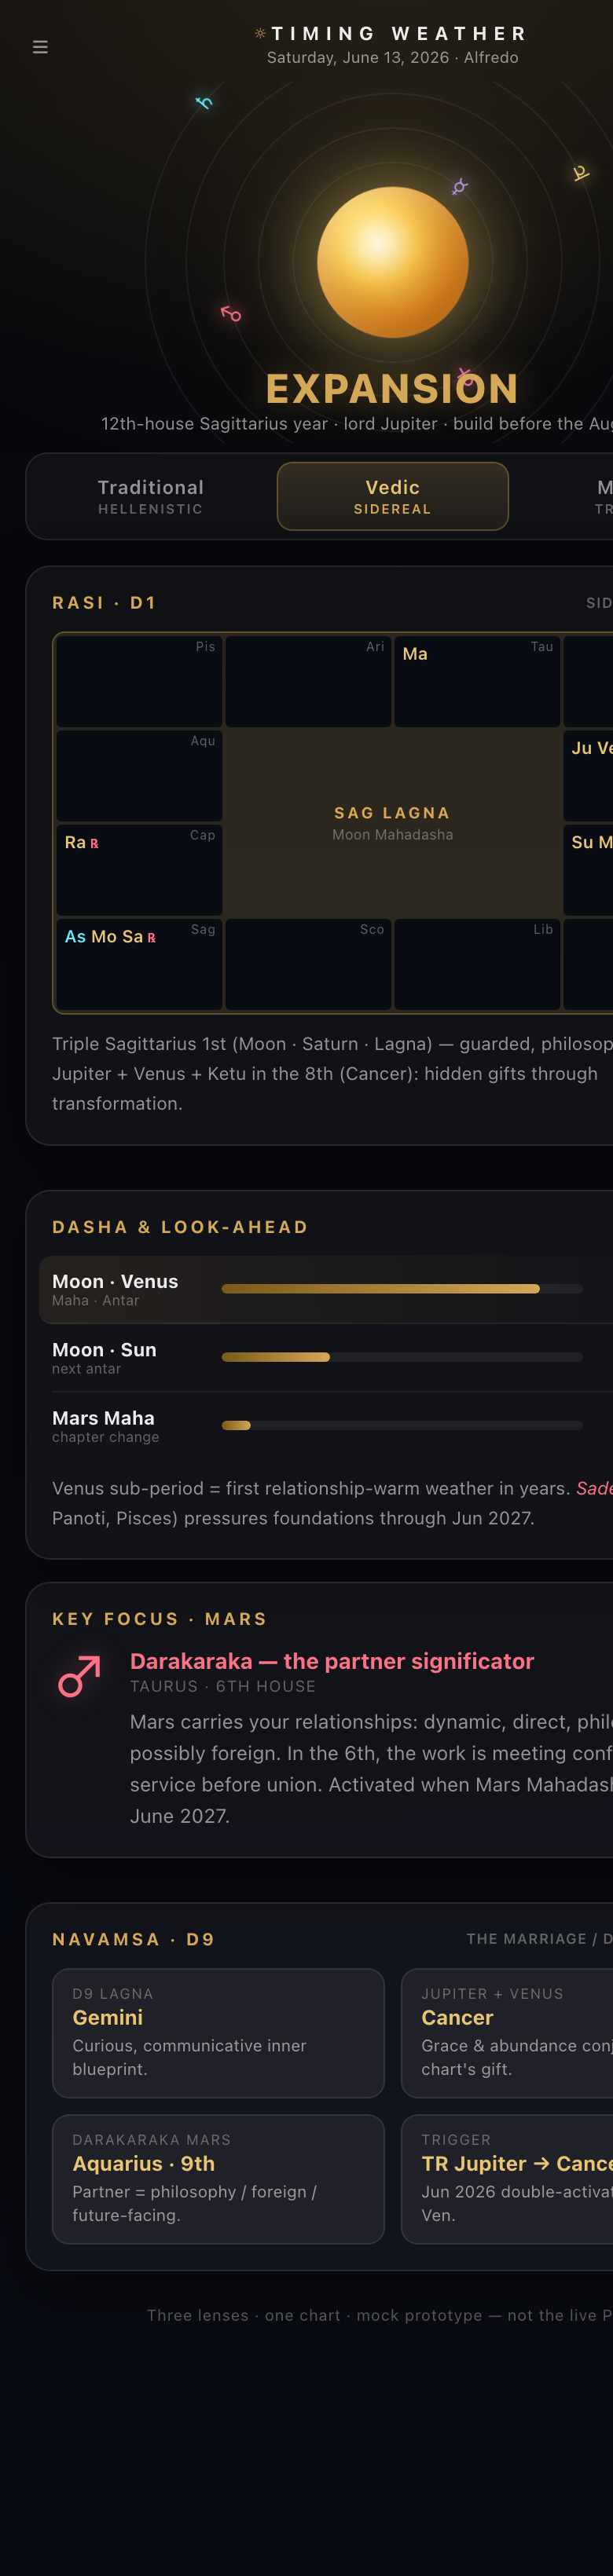
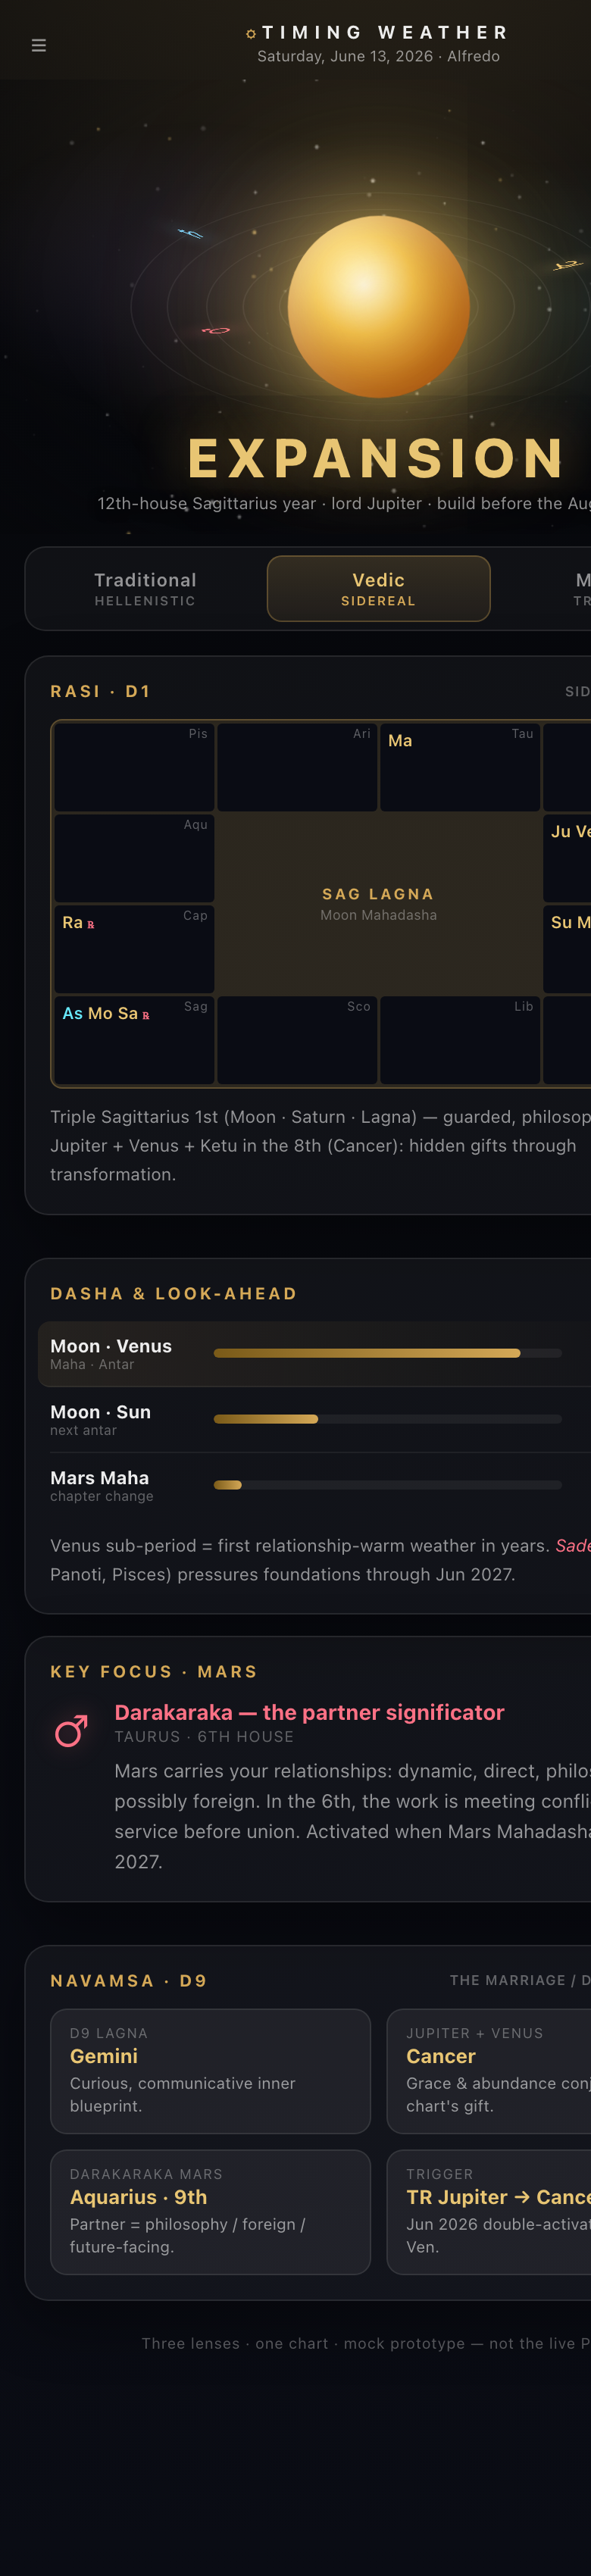
polish(three-lens): cinematic solar hero + kill iOS emoji glyphs
Hero reworked into a tilted 3D orbital plane with starfield, nebula glow,
luminous sun + corona, planets gliding on elliptical paths, dramatic title.
Zodiac/planet symbols now render as monochrome TEXT (Apple Symbols stack +
U+FE0E + font-variant-emoji) instead of color emoji, in HTML and SVG charts.

diff --git a/timing-weather/design_exploration_2026-06-12/three-lens-dashboard.html b/timing-weather/design_exploration_2026-06-12/three-lens-dashboard.html
@@ -17,13 +17,18 @@
   --gold:#d4a857;--gold-br:#e8c573;--gold-deep:#7a5a18;
   --green:#4ade80;--orange:#f59e0b;--cyan:#67e8f9;--red:#f87171;--violet:#a78bfa;--pink:#f472b6;--coral:#fb7185;
   --t:rgba(255,255,255,.92);--t2:rgba(255,255,255,.55);--t3:rgba(255,255,255,.34);
-  --sans:-apple-system,BlinkMacSystemFont,"SF Pro Display","Segoe UI",system-ui,sans-serif;
+  /* "Apple Symbols" / "Segoe UI Symbol" supply MONOCHROME text glyphs for zodiac + planets,
+     so the browser uses those instead of falling back to the color-emoji font. */
+  --sans:-apple-system,BlinkMacSystemFont,"SF Pro Display","Segoe UI",system-ui,"Apple Symbols","Segoe UI Symbol","Noto Sans Symbols2",sans-serif;
   --serif:"Iowan Old Style",Georgia,"Times New Roman",serif;
   --mono:"SF Mono",ui-monospace,Menlo,monospace;
 }
 *,*::before,*::after{box-sizing:border-box;margin:0;padding:0}
+/* SVG chart text (wheel signs, planet glyphs) must use the symbol-inclusive stack too */
+svg text{font-family:var(--sans);font-variant-emoji:text}
 html,body{width:100%}
 body{font-family:var(--sans);color:var(--t);-webkit-font-smoothing:antialiased;min-height:100vh;overflow-x:hidden;
+  font-variant-emoji:text;text-rendering:optimizeLegibility;
   background:radial-gradient(1100px 560px at 50% -4%,rgba(212,168,87,.13),transparent 56%),
     radial-gradient(700px 420px at 50% 4%,rgba(232,197,115,.05),transparent 60%),
     linear-gradient(180deg,var(--bg),var(--bg2));background-attachment:fixed;padding-bottom:40px}
@@ -38,19 +43,33 @@ body{font-family:var(--sans);color:var(--t);-webkit-font-smoothing:antialiased;m
 .hdr .tt .d{font-size:10px;color:var(--t2);margin-top:2px}
 .hdr .dots{width:30px}
 
-/* ANIMATED SOLAR-SYSTEM HERO */
-.solar{position:relative;height:230px;margin:2px 0 6px;overflow:hidden}
-.solar .sun{position:absolute;left:50%;top:115px;width:96px;height:96px;border-radius:50%;margin:-48px 0 0 -48px;z-index:3;
-  background:radial-gradient(circle at 40% 38%,#FFFCEA,#FFF1B3 12%,#FFD659 30%,#E8A93A 55%,#8A4D0B 100%);
-  box-shadow:0 0 50px rgba(255,218,109,.55),0 0 110px rgba(212,168,87,.32),inset -14px -20px 40px rgba(180,80,0,.55),inset 6px 6px 20px rgba(255,250,200,.5);animation:breathe 6s ease-in-out infinite}
-@keyframes breathe{0%,100%{transform:scale(1)}50%{transform:scale(1.04)}}
-.orb{position:absolute;left:50%;top:115px;border:1px solid rgba(255,255,255,.06);border-radius:50%;transform:translate(-50%,-50%)}
-.spin{position:absolute;left:50%;top:115px;width:0;height:0;transform:translate(-50%,-50%);animation:spin linear infinite}
-.spin .pl{position:absolute;font-size:15px;transform:translate(-50%,-50%);filter:drop-shadow(0 0 5px currentColor)}
+/* CINEMATIC SOLAR-SYSTEM HERO — tilted orbital plane + starfield + luminous sun */
+.solar{position:relative;height:300px;margin:2px -16px 8px;overflow:hidden}
+#starfield{position:absolute;inset:0;z-index:0;pointer-events:none}
+.solar .neb{position:absolute;inset:0;z-index:0;pointer-events:none;
+  background:radial-gradient(55% 62% at 50% 56%,rgba(212,168,87,.13),transparent 72%),
+    radial-gradient(46% 46% at 26% 42%,rgba(167,139,250,.10),transparent 72%),
+    radial-gradient(42% 46% at 76% 50%,rgba(103,232,249,.07),transparent 72%)}
+.solar .vig{position:absolute;inset:0;z-index:4;pointer-events:none;
+  background:radial-gradient(82% 92% at 50% 44%,transparent 54%,rgba(6,7,10,.7))}
+/* the orbital plane is squashed vertically (scaleY) → circles read as ellipses seen at an angle */
+.field{position:absolute;left:50%;top:150px;width:0;height:0;z-index:1;transform:translate(-50%,-50%) scaleY(.46)}
+.orb{position:absolute;left:50%;top:50%;border-radius:50%;border:1px solid rgba(255,255,255,.07);transform:translate(-50%,-50%)}
+.spin{position:absolute;left:50%;top:50%;width:0;height:0;transform:translate(-50%,-50%);animation:spin linear infinite}
+.spin .pl{position:absolute;left:0;transform:translate(-50%,-50%) scaleY(2.17);font-size:14px;filter:drop-shadow(0 0 6px currentColor)}
 @keyframes spin{to{transform:translate(-50%,-50%) rotate(360deg)}}
-.solar .label{position:absolute;left:0;right:0;bottom:6px;text-align:center;z-index:4}
-.solar .label .ph{font-size:26px;font-weight:800;letter-spacing:.05em;color:var(--gold);text-transform:uppercase;text-shadow:0 0 22px rgba(212,168,87,.4)}
-.solar .label .sub{font-size:11px;color:var(--t2);margin-top:1px}
+.sun{position:absolute;left:50%;top:150px;width:120px;height:120px;border-radius:50%;margin:-60px 0 0 -60px;z-index:2;
+  background:radial-gradient(circle at 42% 38%,#FFFEF4 0%,#FFF1B3 14%,#FFD659 32%,#E8A93A 56%,#B5630C 82%,#6e3b08 100%);
+  box-shadow:0 0 64px rgba(255,218,109,.6),0 0 140px rgba(232,197,115,.42),0 0 250px rgba(212,168,87,.3),
+    inset -18px -24px 52px rgba(150,60,0,.6),inset 9px 9px 28px rgba(255,252,220,.55);animation:breathe 7s ease-in-out infinite}
+.sun::before{content:"";position:absolute;inset:-16px;border-radius:50%;z-index:-1;
+  background:radial-gradient(circle,rgba(255,214,89,.34),transparent 66%);animation:corona 7s ease-in-out infinite}
+@keyframes breathe{0%,100%{transform:scale(1)}50%{transform:scale(1.035)}}
+@keyframes corona{0%,100%{opacity:.55;transform:scale(1)}50%{opacity:1;transform:scale(1.14)}}
+.solar .label{position:absolute;left:0;right:0;bottom:14px;text-align:center;z-index:5}
+.solar .label .ph{font-size:36px;font-weight:800;letter-spacing:.14em;color:var(--gold-br);text-transform:uppercase;
+  text-shadow:0 0 32px rgba(212,168,87,.55),0 2px 22px rgba(0,0,0,.7)}
+.solar .label .sub{font-size:11px;color:var(--t2);margin-top:3px;text-shadow:0 1px 8px rgba(0,0,0,.85)}
 
 /* lens nav */
 .lensnav{display:flex;gap:6px;background:var(--card);border:1px solid var(--border);border-radius:14px;padding:5px;margin:6px 0 16px}
@@ -159,9 +178,13 @@ body{font-family:var(--sans);color:var(--t);-webkit-font-smoothing:antialiased;m
     <div class="dots"></div>
   </div>
 
-  <!-- ANIMATED SOLAR SYSTEM HERO -->
+  <!-- CINEMATIC SOLAR SYSTEM HERO -->
   <div class="solar" id="solar">
+    <canvas id="starfield"></canvas>
+    <div class="neb"></div>
+    <div class="field" id="field"></div>
     <div class="sun"></div>
+    <div class="vig"></div>
     <div class="label"><div class="ph">EXPANSION</div><div class="sub">12th-house Sagittarius year · lord Jupiter · build before the August turn</div></div>
   </div>
 
@@ -283,22 +306,35 @@ body{font-family:var(--sans);color:var(--t);-webkit-font-smoothing:antialiased;m
 <script>
 const NS='http://www.w3.org/2000/svg';
 function el(tag,attrs,parent){const e=document.createElementNS(NS,tag);for(const k in attrs)e.setAttribute(k,attrs[k]);if(parent)parent.appendChild(e);return e;}
+/* force monochrome TEXT presentation on astro/planet/arrow glyphs (Apple defaults them to color emoji).
+   Appends U+FE0E to every matched glyph across HTML + SVG text nodes. */
+function noEmoji(root){
+  const SET=/[↗↘♈-♓♀♂♃♄♅♆♇☉☼☽☿☊❤☀]/g;
+  const w=document.createTreeWalker(root,NodeFilter.SHOW_TEXT,null);const nodes=[];let n;
+  while(n=w.nextNode())nodes.push(n);
+  nodes.forEach(t=>{const v=t.nodeValue;if(SET.test(v)){SET.lastIndex=0;t.nodeValue=v.replace(SET,m=>m+'︎');}SET.lastIndex=0;});
+}
 
-/* ---- animated solar-system hero ---- */
+/* ---- cinematic solar-system hero: starfield + tilted orbital plane ---- */
 (function(){
-  const host=document.getElementById('solar');
-  // decorative orbital system: rings + orbiting planet glyphs
+  const host=document.getElementById('solar'), W=host.clientWidth||375, H=300;
+  // starfield
+  const cv=document.getElementById('starfield');cv.width=W;cv.height=H;const x=cv.getContext('2d');
+  for(let i=0;i<130;i++){const r=Math.pow(Math.random(),2)*1.4+.2;x.beginPath();x.arc(Math.random()*W,Math.random()*H,r,0,7);
+    x.fillStyle=`rgba(255,255,255,${Math.random()*.5+.12})`;x.fill();}
+  for(let i=0;i<16;i++){x.beginPath();x.arc(Math.random()*W,Math.random()*H,Math.random()*1+.4,0,7);
+    x.fillStyle=`rgba(232,197,115,${Math.random()*.5+.3})`;x.fill();}
+  // orbital plane (squashed via CSS scaleY → ellipses)
+  const field=document.getElementById('field');
   const planets=[ // [glyph,color,radius,period(s),startDeg]
-    ['☿','#a78bfa',64,9,20],['♀','#f472b6',86,16,140],['♂','#fb7185',108,26,250],
-    ['♃','#e8c573',132,40,60],['♄','#67e8f9',158,60,310]];
+    ['☿','#c4b5fd',66,9,20],['♀','#f9a8d4',90,15,150],['♂','#fb7185',114,25,250],
+    ['♃','#f0c674',140,40,60],['♄','#7dd3fc',164,62,310]];
   planets.forEach(([g,c,r,per,start])=>{
-    const ring=document.createElement('div');ring.className='orb';
-    ring.style.width=ring.style.height=(r*2)+'px';host.insertBefore(ring,host.firstChild);
+    const ring=document.createElement('div');ring.className='orb';ring.style.width=ring.style.height=(r*2)+'px';field.appendChild(ring);
     const spin=document.createElement('div');spin.className='spin';
     spin.style.animationDuration=per+'s';spin.style.transform=`translate(-50%,-50%) rotate(${start}deg)`;
-    const pl=document.createElement('div');pl.className='pl';pl.textContent=g;pl.style.color=c;
-    pl.style.left='0px';pl.style.top=(-r)+'px';
-    spin.appendChild(pl);host.insertBefore(spin,host.querySelector('.label'));
+    const pl=document.createElement('div');pl.className='pl';pl.textContent=g;pl.style.color=c;pl.style.top=(-r)+'px';
+    spin.appendChild(pl);field.appendChild(spin);
   });
 })();
 
@@ -380,6 +416,9 @@ function el(tag,attrs,parent){const e=document.createElementNS(NS,tag);for(const
     const order=['trad','vedic','modern'];const cur=order.indexOf(document.querySelector('.slide.on').dataset.lens);
     const ni=Math.max(0,Math.min(2,cur+(dx<0?1:-1)));nav.children[ni].click();});
 })();
+
+/* run last: strip emoji presentation from all glyphs (HTML + SVG) */
+noEmoji(document.body);
 </script>
 </body>
 </html>